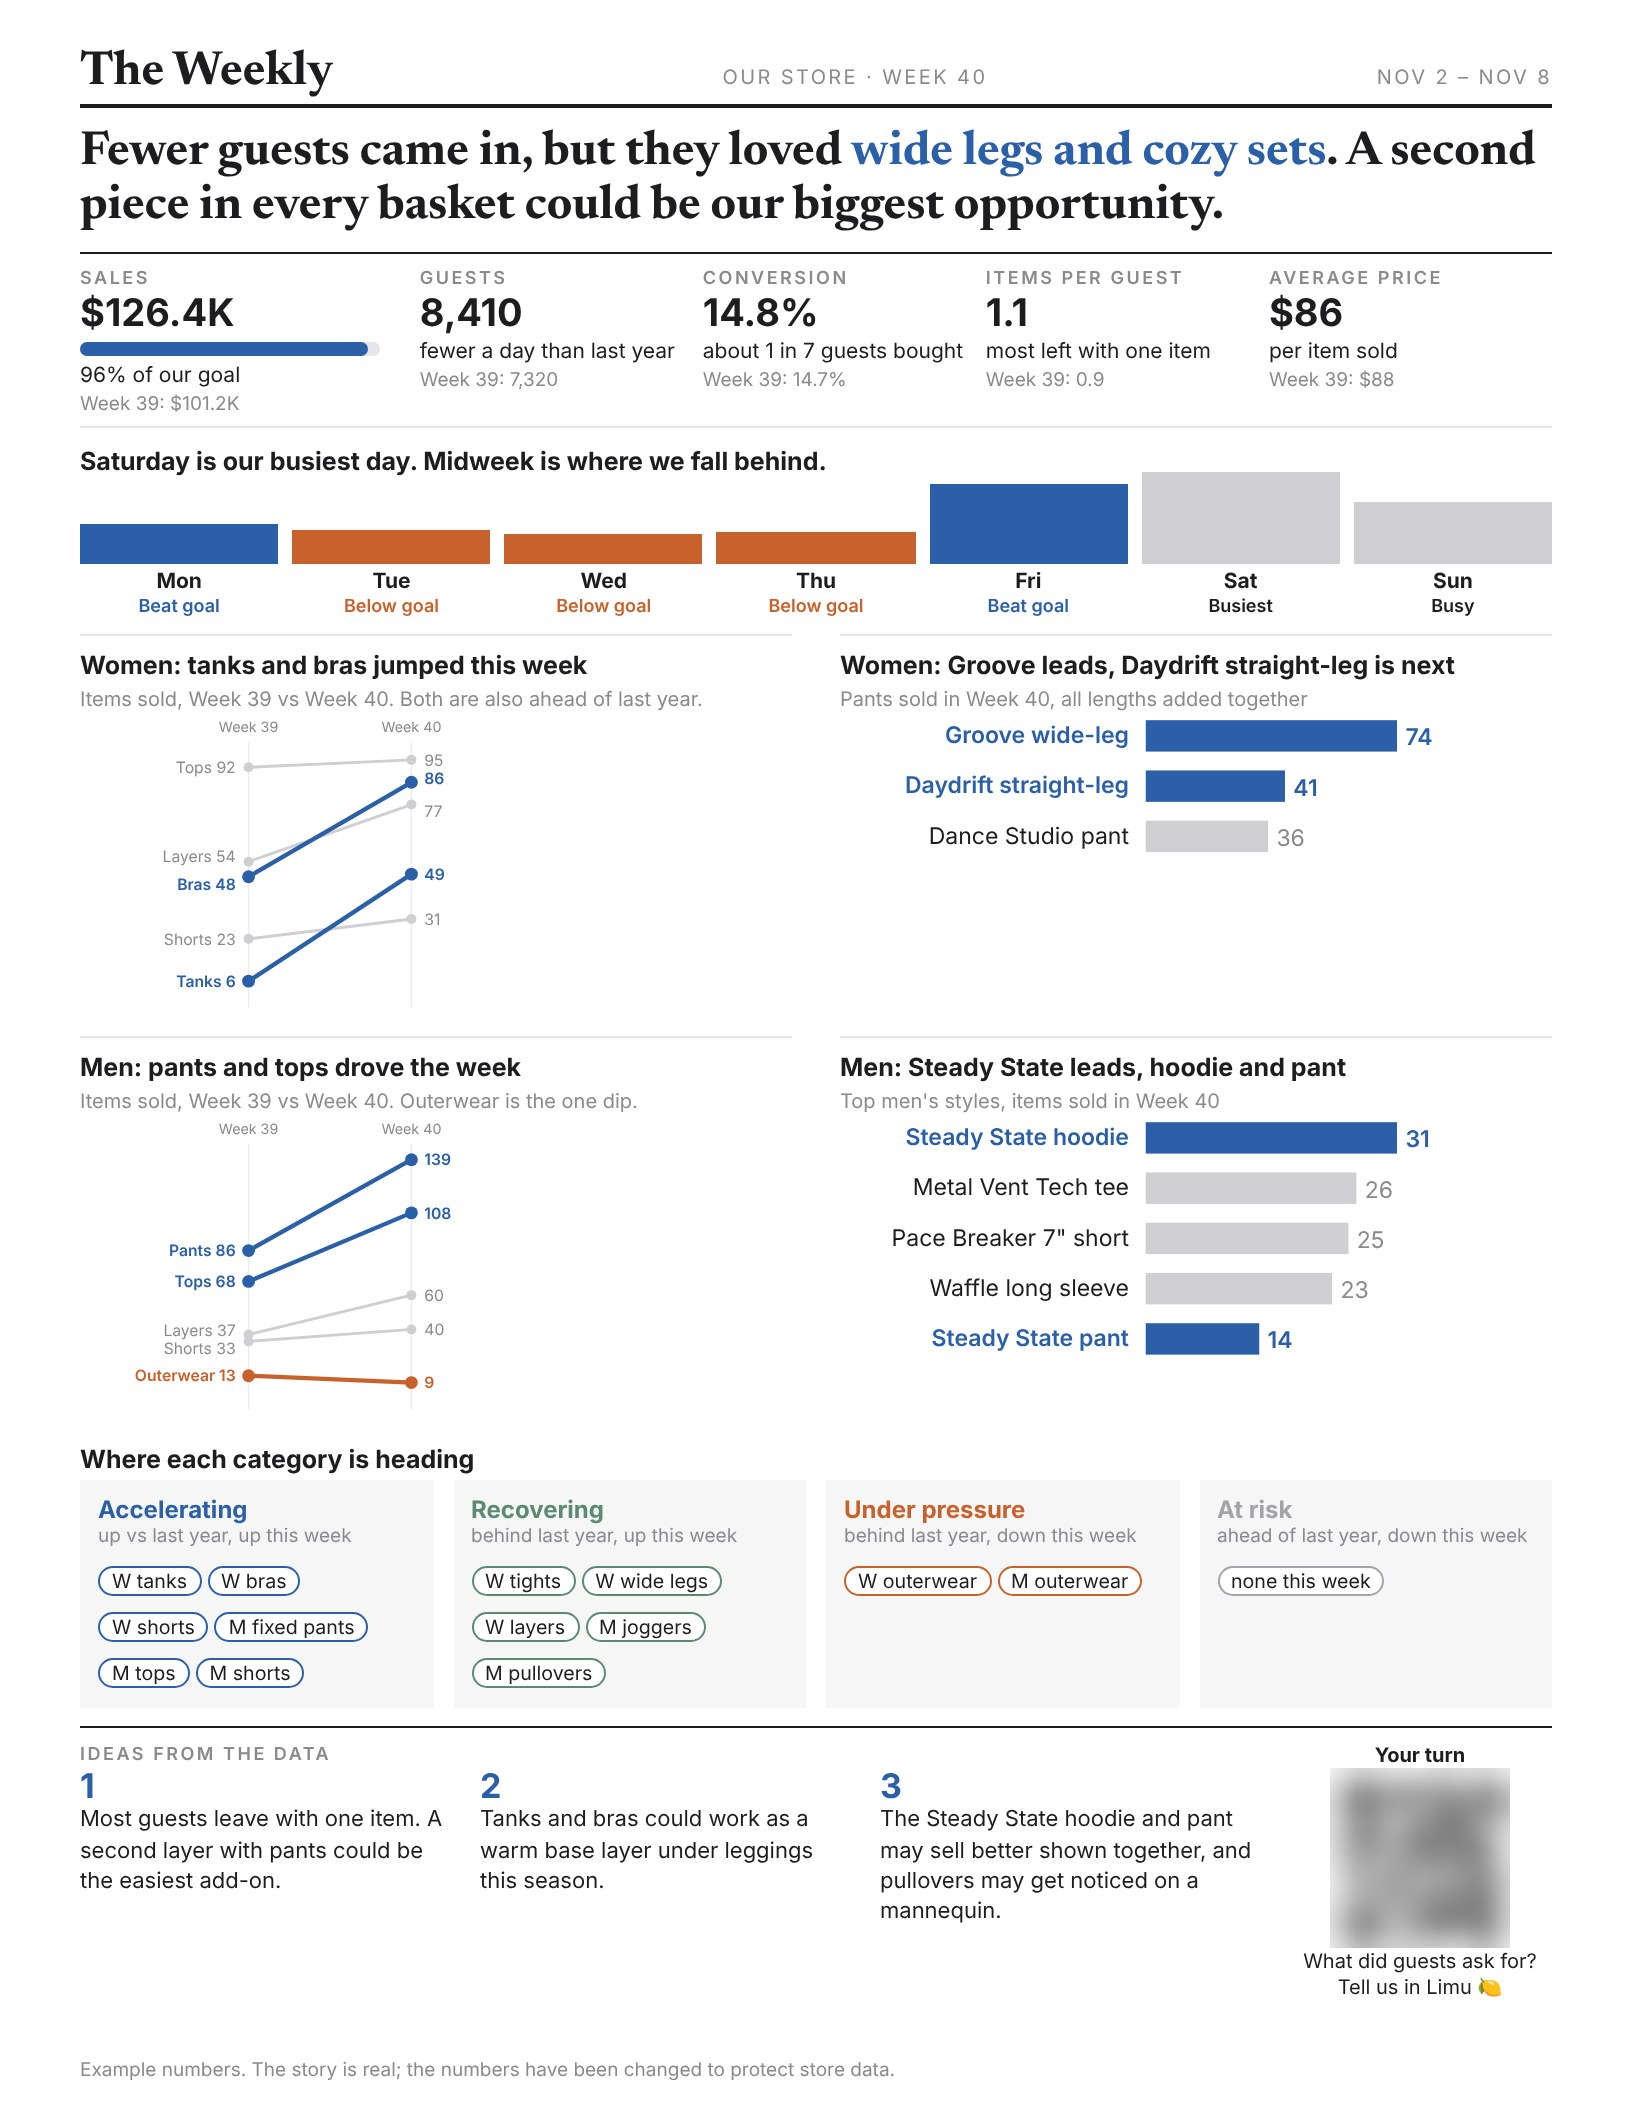
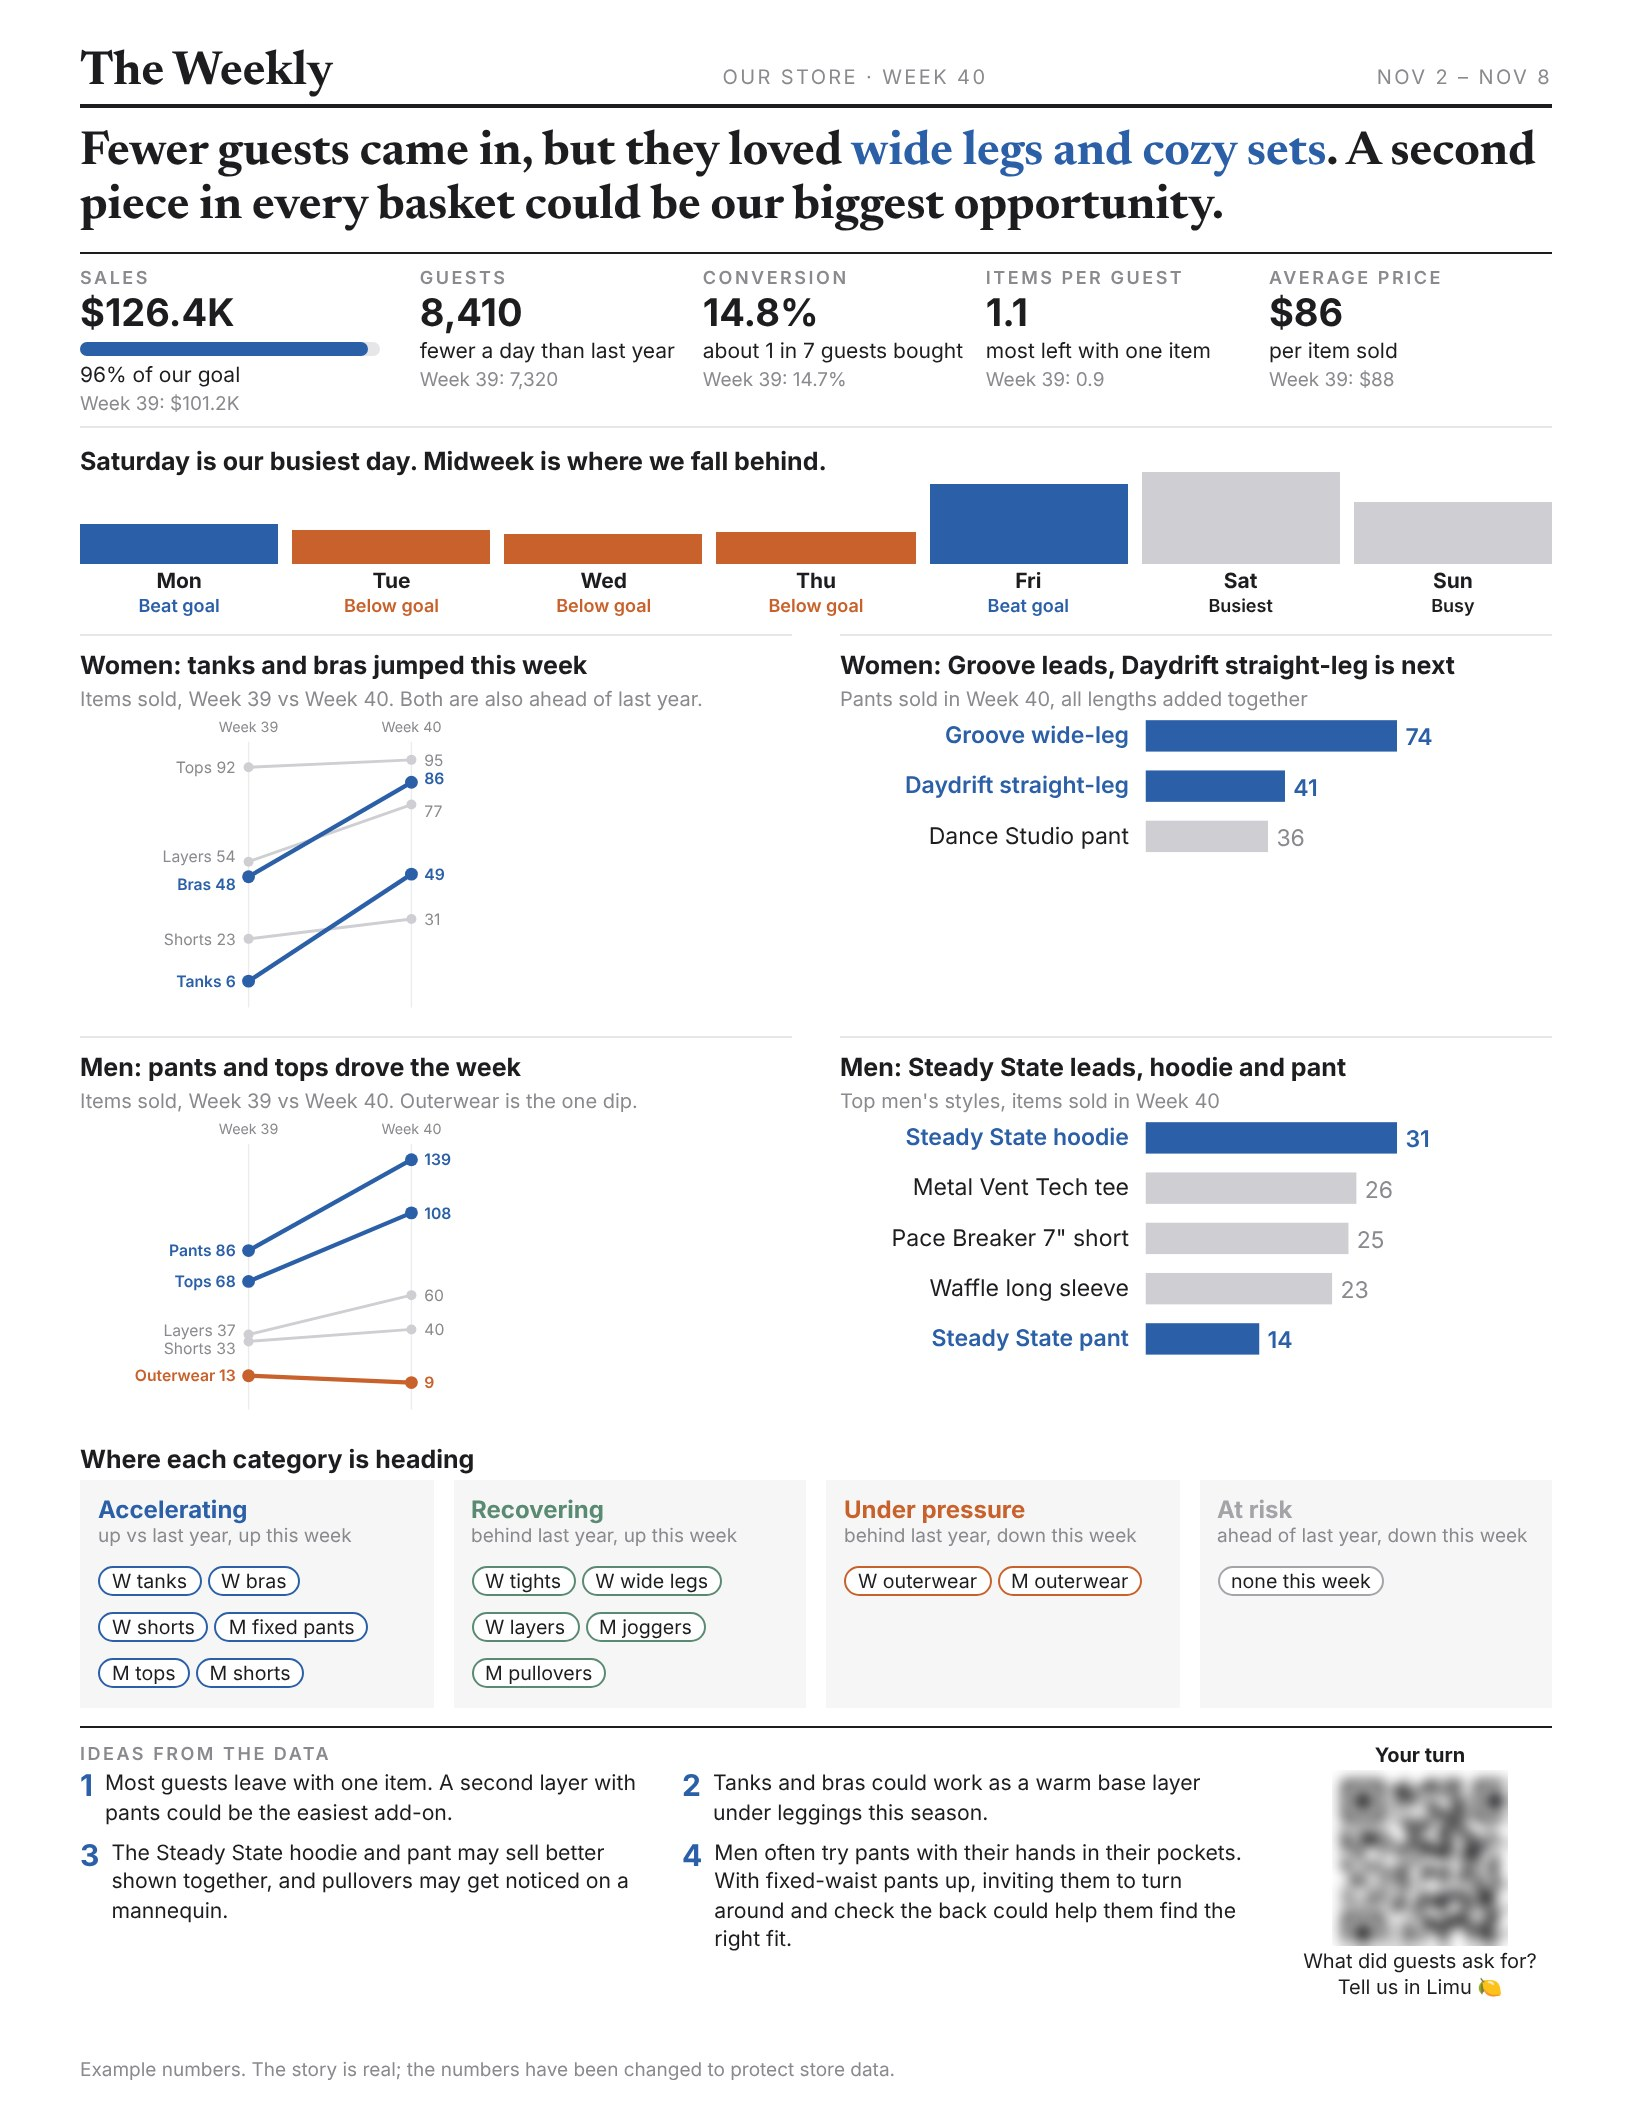
Remove Nov 13 journal entry; compact Asoo Design; Weekly: men's pant fit idea, lighter QR blur
Claude-Session: https://claude.ai/code/session_011ZU1tgXn8aNEA1hgF5gWNT

Changed region(s): [[0.0312, 0.8438, 0.75, 0.9375], [0.8125, 0.8125, 0.9375, 0.9375]]

diff --git a/assets/style.css b/assets/style.css
@@ -469,3 +469,27 @@ main.wide .page.case { max-width: 1040px; }
 .more-pieces { margin-top: 56px; padding-top: 32px; border-top: 1px solid var(--line); }
 .gallery.four { grid-template-columns: repeat(4, 1fr); gap: 12px; margin-top: 16px; }
 @media (max-width: 640px) { .gallery.four { grid-template-columns: 1fr 1fr; } }
+
+/* Asoo Design: compact layout, each collection is one row of small photos */
+.collection { grid-template-columns: 240px 1fr; gap: 32px; margin: 36px 0; padding-top: 22px; }
+.collection-text p { font-size: .9rem; line-height: 1.55; }
+.collection-photos { grid-template-columns: repeat(5, 1fr); gap: 8px; }
+.collection-photos .lead { grid-row: auto; }
+.collection-photos img, .collection-photos .lead img { aspect-ratio: 3 / 4; height: auto; }
+.more-pieces { margin-top: 32px; padding-top: 22px; }
+.gallery.four { grid-template-columns: repeat(6, 1fr); gap: 8px; max-width: 70%; }
+@media (max-width: 760px) {
+  .collection { grid-template-columns: 1fr; gap: 14px; }
+  .collection-photos { grid-template-columns: repeat(3, 1fr); }
+  .collection-photos .lead { grid-column: auto; }
+  .gallery.four { grid-template-columns: repeat(4, 1fr); max-width: none; }
+}
+.collection { grid-template-columns: 1fr; gap: 14px; }
+.collection-text { max-width: 46em; }
+.collection-text h2 { margin-bottom: .4em; }
+main.wide .page:has(.intro-cols) { max-width: none; }
+.intro-cols { display: grid; grid-template-columns: 1fr 1fr; gap: 32px; }
+.intro-cols .jewelry-intro { max-width: none; font-size: .92rem; }
+.collection-photos img, .collection-photos .lead img { aspect-ratio: 1 / 1; }
+.collection { margin: 28px 0; }
+@media (max-width: 760px) { .intro-cols { grid-template-columns: 1fr; gap: 0; } }

diff --git a/projects/asoo-design.html b/projects/asoo-design.html
@@ -8,8 +8,10 @@ permalink: /projects/asoo-design/
   <p class="eyebrow"><a href="{{ '/projects/' | relative_url }}">Projects</a> / Jewelry making</p>
   <h1>Asoo Design</h1>
   <p class="lede">My handmade jewelry brand, founded in Tehran in 2020.</p>
+  <div class="intro-cols">
   <p class="jewelry-intro">Asoo Design began during the pandemic, around the time I decided to slowly step away from engineering. I wanted to work with my hands, with colour and material, and to see an idea turn into something real. Exploring colour pulled me in first, and before long I was releasing collections.</p>
   <p class="jewelry-intro">Then came the business side: figuring out where to sell, from Instagram to physical galleries, and learning who I was really designing for. My customers turned out to be people looking for distinctive pieces, things they wouldn't find anywhere else. Asoo taught me the whole life of a product, from a first sketch to the person who wears it.</p>
+  </div>
 </article>
 
 <section class="collection">
